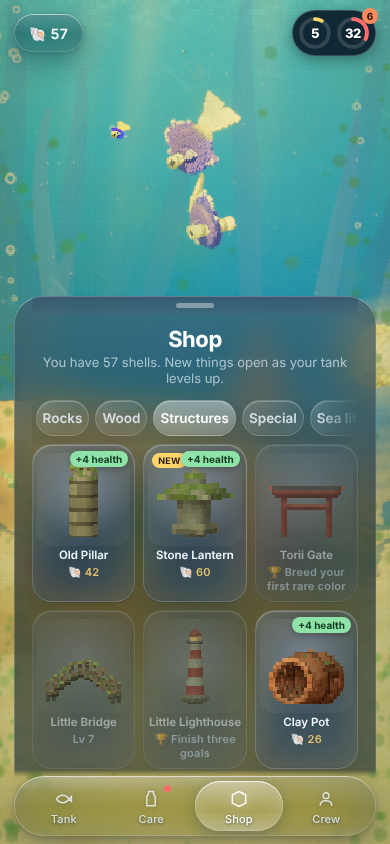
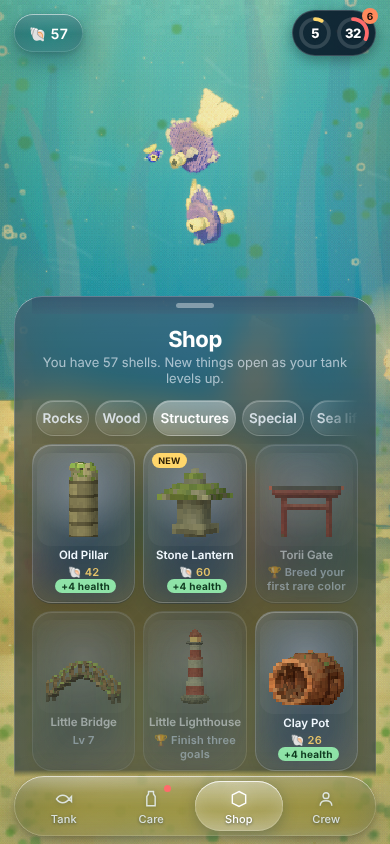
Shop tags sit under the price (no overlap with NEW); the card says how many you have and what another would do; test covers a second copy
Claude-Session: https://claude.ai/code/session_01AcX8wdAS6t2Ysits5NhkSb

diff --git a/web/src/ui.js b/web/src/ui.js
@@ -368,9 +368,9 @@ export function initUI({ game, social, cb }) {
   function usesHtml(kind, id) {
     const have = new Set(S().fish.filter((f) => !f.dead).map((f) => f.species)), mine = (sp) => (have.has(sp) ? ' <i>in your tank</i>' : '');
     if (kind === 'fish') { const N = KIND_NEEDS[id] ?? [], nat = SOCIAL[id]?.nature; return `${nat ? `<p class="pvnat">${esc(nat)}</p>` : ''}${N.length ? `<div class="pvuse"><small>WHAT IT NEEDS</small><ul>${N.map((w) => `<li><b>${esc(w.label)}</b><span>${esc(w.how)}</span></li>`).join('')}</ul></div>` : ''}`; }
-    const E = effectOf(id); let now = '';
+    const E = effectOf(id), nOwn = S().decor.filter((d) => d.type === id).length; let now = '';
     if (E) { const up = E.after - E.before, rows = E.animals.slice(0, 5).map((x) => `<li><b>${esc(x.name)}</b><span>${x.met.length ? esc(x.met.join(', ')) + ' · ' : ''}${x.d > 0 ? `wellbeing +${x.d}` : 'happier'}</span></li>`).join('');
-      now = `<div class="pvuse pvnow"><small>IN YOUR TANK NOW</small><p class="pvh">${up > 0 ? `Tank Health <b>${E.before} → ${E.after}</b>` : `Tank Health stays at <b>${E.before}</b>`}</p>${rows ? `<ul>${rows}</ul>` : `<p>${up > 0 ? '' : 'Your animals already have what this gives them.'}</p>`}${E.themesDone.map((l) => `<p>✦ Completes the <b>${esc(l)}</b> theme: every fish a little happier, +${E.themeReward} shells.</p>`).join('')}${E.themeProgress.map((x) => `<p>${esc(x.label)} theme: this makes it ${x.have} of ${x.need}.</p>`).join('')}</div>`; }
+      now = `<div class="pvuse pvnow"><small>${nOwn ? `YOU HAVE ${nOwn} · ANOTHER ONE WOULD DO` : 'IN YOUR TANK NOW'}</small><p class="pvh">${up > 0 ? `Tank Health <b>${E.before} → ${E.after}</b>` : `Tank Health stays at <b>${E.before}</b>`}</p>${rows ? `<ul>${rows}</ul>` : `<p>${up > 0 ? '' : nOwn ? 'Your animals already have what this gives them: another one only adds to the look.' : 'Your animals already have what this gives them.'}</p>`}${E.themesDone.map((l) => `<p>✦ Completes the <b>${esc(l)}</b> theme: every fish a little happier, +${E.themeReward} shells.</p>`).join('')}${E.themeProgress.map((x) => `<p>${esc(x.label)} theme: this makes it ${x.have} of ${x.need}.</p>`).join('')}</div>`; }
     const u = decorUses(id), own = (a) => [...a].sort((x, y) => have.has(y.sp) - have.has(x.sp)), tw = own(u.toward.filter((x) => !u.meets.some((m) => m.sp === x.sp)));
     let h = now;
     if (u.meets.length) h += `<div class="pvuse"><small>WHO IT'S FOR</small><ul>${own(u.meets).map((m) => `<li><b>${esc(m.label)}${mine(m.sp)}</b><span>${esc(m.need)}</span></li>`).join('')}</ul></div>`;
@@ -391,7 +391,7 @@ export function initUI({ game, social, cb }) {
     return out.map((c) => {
       if (c.kind === 'floor' || c.kind === 'backdrop') { const key = c.kind + ':' + c.id; return `<button class="card ${selected === key ? 'sel' : ''}" data-k="${key}"><div class="sw" style="background:${SWATCH[c.kind][c.id]}"></div><b>${esc(c.label)}</b><span class="pr">${c.cur ? 'IN USE' : c.own || !c.price ? 'OWNED' : '🐚 ' + c.price}</span></button>`; }
       const lock = s.level < c.level || !!c.earned, key = c.kind + ':' + c.id, free = c.kind === 'decor' && isFree(s, c.id);      // (an earned piece is never for sale: it says how it is earned)
-      return `<button class="card ${selected === key ? 'sel' : ''} ${lock ? 'lock' : ''}" data-k="${key}"><img alt="" data-thumb="${key}">${!lock && isNew(S(), c) ? '<em class="newtag">NEW</em>' : ''}${(() => { const n = c.kind === 'decor' && tankNeeds(S()).find((x) => x.types.includes(c.id)); return n ? `<em class="wanttag">♥ ${esc(n.key === 'plants' ? 'Fish' : n.name)}</em>` : ''; })()}${(() => { if (c.kind !== 'decor' || lock || tankNeeds(S()).some((x) => x.types.includes(c.id))) return ''; const e = effectOf(c.id), up = e ? e.after - e.before : 0; return up > 0 ? `<em class="hptag">+${up} health</em>` : e?.themesDone.length ? '<em class="hptag">✦ theme</em>' : ''; })()}<b>${esc(c.label)}${c.kind === 'fish' && (c.id === 'seahorse' || c.id === 'octopus') ? ' <i class="kinds">4 kinds</i>' : ''}</b><span class="pr">${c.earned ? (c.earned === 'got' ? 'EARNED ✓' : `🏆 ${esc(c.earned)}`) : lock ? 'Lv ' + c.level : free ? 'FREE' : '🐚 ' + c.price}${c.deal && !lock ? ` <em class="carrier">carries ${esc(MORPHS[specialOf(S()).color]?.label.toLowerCase() ?? '')}</em>` : ''}</span></button>`;
+      return `<button class="card ${selected === key ? 'sel' : ''} ${lock ? 'lock' : ''}" data-k="${key}"><img alt="" data-thumb="${key}">${!lock && isNew(S(), c) ? '<em class="newtag">NEW</em>' : ''}${(() => { const n = c.kind === 'decor' && tankNeeds(S()).find((x) => x.types.includes(c.id)); return n ? `<em class="wanttag">♥ ${esc(n.key === 'plants' ? 'Fish' : n.name)}</em>` : ''; })()}<b>${esc(c.label)}${c.kind === 'fish' && (c.id === 'seahorse' || c.id === 'octopus') ? ' <i class="kinds">4 kinds</i>' : ''}</b><span class="pr">${c.earned ? (c.earned === 'got' ? 'EARNED ✓' : `🏆 ${esc(c.earned)}`) : lock ? 'Lv ' + c.level : free ? 'FREE' : '🐚 ' + c.price}${(() => { if (c.kind !== 'decor' || lock || c.earned) return ''; const e = effectOf(c.id), up = e ? e.after - e.before : 0; return up > 0 ? ` <em class="hptag">+${up} health</em>` : e?.themesDone.length ? ' <em class="hptag">✦ theme</em>' : ''; })()}${c.deal && !lock ? ` <em class="carrier">carries ${esc(MORPHS[specialOf(S()).color]?.label.toLowerCase() ?? '')}</em>` : ''}</span></button>`;
     }).join('');
   }
   function shopDetail() {

diff --git a/web/index.html b/web/index.html
@@ -703,7 +703,7 @@
 #card .newb{font-style:normal;font-size:10.5px;font-weight:700;letter-spacing:.04em;padding:2px 7px;border-radius:8px;background:#ff8fb1;color:#3a0b1c;vertical-align:1px}
 #sheet .crew .pcard{all:unset;box-sizing:border-box;cursor:pointer;display:flex;align-items:center;gap:13px;width:100%;margin:12px 0 0;padding:14px 14px;border-radius:18px;background:linear-gradient(135deg,rgba(255,230,170,.2),rgba(255,180,140,.1));box-shadow:inset 0 0 0 1px rgba(255,220,160,.25)}
 #sheet .crew .pcard .pci{flex:none;display:grid;place-items:center;width:52px;height:52px;border-radius:14px;background:#f6ecd6;transform:rotate(-4deg);box-shadow:0 6px 12px -6px rgba(0,0,0,.5)}#sheet .crew .pcard .pct{flex:1}#sheet .crew .pcard b{display:block;font:650 15.5px -apple-system,system-ui,sans-serif;color:#fff}#sheet .crew .pcard small{display:block;margin-top:2px;font-size:12.5px;line-height:1.35;color:#d9c9ae}#sheet .crew .pcard:active{filter:brightness(1.1)}
-.notesheet .pvimg{width:96px;height:96px;object-fit:contain;image-rendering:pixelated;margin:-4px auto 2px;display:block}.notesheet .pvl{color:#9fd3ff!important;font-size:13px!important}.notesheet .pvf{margin:10px 0 0;padding:10px 12px;border-radius:12px;background:rgba(124,199,255,.12);text-align:left}.notesheet .pvf small{font:700 10.5px -apple-system,system-ui,sans-serif;letter-spacing:.08em;color:#8ec9ff}.notesheet .pvf p{margin:4px 0 0!important}.notesheet.deco .nsw{max-height:88vh;overflow-y:auto}.notesheet .pvnat{font-size:14px!important;margin:8px 0 0!important}.notesheet .pvuse{margin:10px 0 0;padding:10px 12px;border-radius:12px;background:rgba(255,255,255,.07);text-align:left}.notesheet .pvnow{background:rgba(143,227,168,.12)}.notesheet .pvnow small{color:#8fe3a8!important}.notesheet .pvh b{color:#fff}.card .hptag{position:absolute;right:6px;top:6px;box-shadow:0 2px 6px rgba(0,0,0,.25);font:700 10px -apple-system,system-ui,sans-serif;font-style:normal;color:#0f3a1f;background:#8fe3a8;border-radius:8px;padding:2px 6px}.notesheet .pvuse small{font:700 10.5px -apple-system,system-ui,sans-serif;letter-spacing:.08em;color:#f2c96b}.notesheet .pvuse p{margin:4px 0 0!important;font-size:14px!important}.notesheet .pvuse ul{list-style:none;margin:4px 0 0;padding:0}.notesheet .pvuse li{display:flex;flex-direction:column;padding:5px 0;border-top:1px solid rgba(255,255,255,.08)}.notesheet .pvuse li:first-child{border-top:0}.notesheet .pvuse li b{font-size:14px}.notesheet .pvuse li b i{font-style:normal;font-weight:600;font-size:11px;color:#8fe3a8;margin-left:6px}.notesheet .pvuse li span{font-size:13px;opacity:.8}.notesheet .nsact .buy{background:linear-gradient(#ffe08a,#f2b84b)!important;color:#3a2808!important}.notesheet .nsact .buy:disabled,.notesheet .nsact .buy.dim{opacity:.5}
+.notesheet .pvimg{width:96px;height:96px;object-fit:contain;image-rendering:pixelated;margin:-4px auto 2px;display:block}.notesheet .pvl{color:#9fd3ff!important;font-size:13px!important}.notesheet .pvf{margin:10px 0 0;padding:10px 12px;border-radius:12px;background:rgba(124,199,255,.12);text-align:left}.notesheet .pvf small{font:700 10.5px -apple-system,system-ui,sans-serif;letter-spacing:.08em;color:#8ec9ff}.notesheet .pvf p{margin:4px 0 0!important}.notesheet.deco .nsw{max-height:88vh;overflow-y:auto}.notesheet .pvnat{font-size:14px!important;margin:8px 0 0!important}.notesheet .pvuse{margin:10px 0 0;padding:10px 12px;border-radius:12px;background:rgba(255,255,255,.07);text-align:left}.notesheet .pvnow{background:rgba(143,227,168,.12)}.notesheet .pvnow small{color:#8fe3a8!important}.notesheet .pvh b{color:#fff}.card .hptag{display:inline-block;margin-left:4px;font:700 10px -apple-system,system-ui,sans-serif;font-style:normal;color:#0f3a1f;background:#8fe3a8;border-radius:8px;padding:1px 6px;vertical-align:1px;white-space:nowrap}.notesheet .pvuse small{font:700 10.5px -apple-system,system-ui,sans-serif;letter-spacing:.08em;color:#f2c96b}.notesheet .pvuse p{margin:4px 0 0!important;font-size:14px!important}.notesheet .pvuse ul{list-style:none;margin:4px 0 0;padding:0}.notesheet .pvuse li{display:flex;flex-direction:column;padding:5px 0;border-top:1px solid rgba(255,255,255,.08)}.notesheet .pvuse li:first-child{border-top:0}.notesheet .pvuse li b{font-size:14px}.notesheet .pvuse li b i{font-style:normal;font-weight:600;font-size:11px;color:#8fe3a8;margin-left:6px}.notesheet .pvuse li span{font-size:13px;opacity:.8}.notesheet .nsact .buy{background:linear-gradient(#ffe08a,#f2b84b)!important;color:#3a2808!important}.notesheet .nsact .buy:disabled,.notesheet .nsact .buy.dim{opacity:.5}
 nav [data-tab].dot2::after{background:#ff6b6b!important}
 #sheet .crew .notesrow{margin:10px 0 0;border-radius:16px;background:rgba(255,255,255,.06)}
 

diff --git a/web/sw.js b/web/sw.js
@@ -1,5 +1,5 @@
 // Caches the app shell so the game opens instantly and keeps working without a connection (solo play).
-const V = 'ourtank-v291', SHELL = ['/', '/index.html', '/manifest.webmanifest', '/icon-192.png'];
+const V = 'ourtank-v292', SHELL = ['/', '/index.html', '/manifest.webmanifest', '/icon-192.png'];
 self.addEventListener('install', (e) => { e.waitUntil(caches.open(V).then((c) => c.addAll(SHELL)).then(() => self.skipWaiting())); });
 self.addEventListener('activate', (e) => { e.waitUntil(caches.keys().then((ks) => Promise.all(ks.filter((k) => k !== V).map((k) => caches.delete(k)))).then(() => self.clients.claim())); });
 self.addEventListener('fetch', (e) => {
